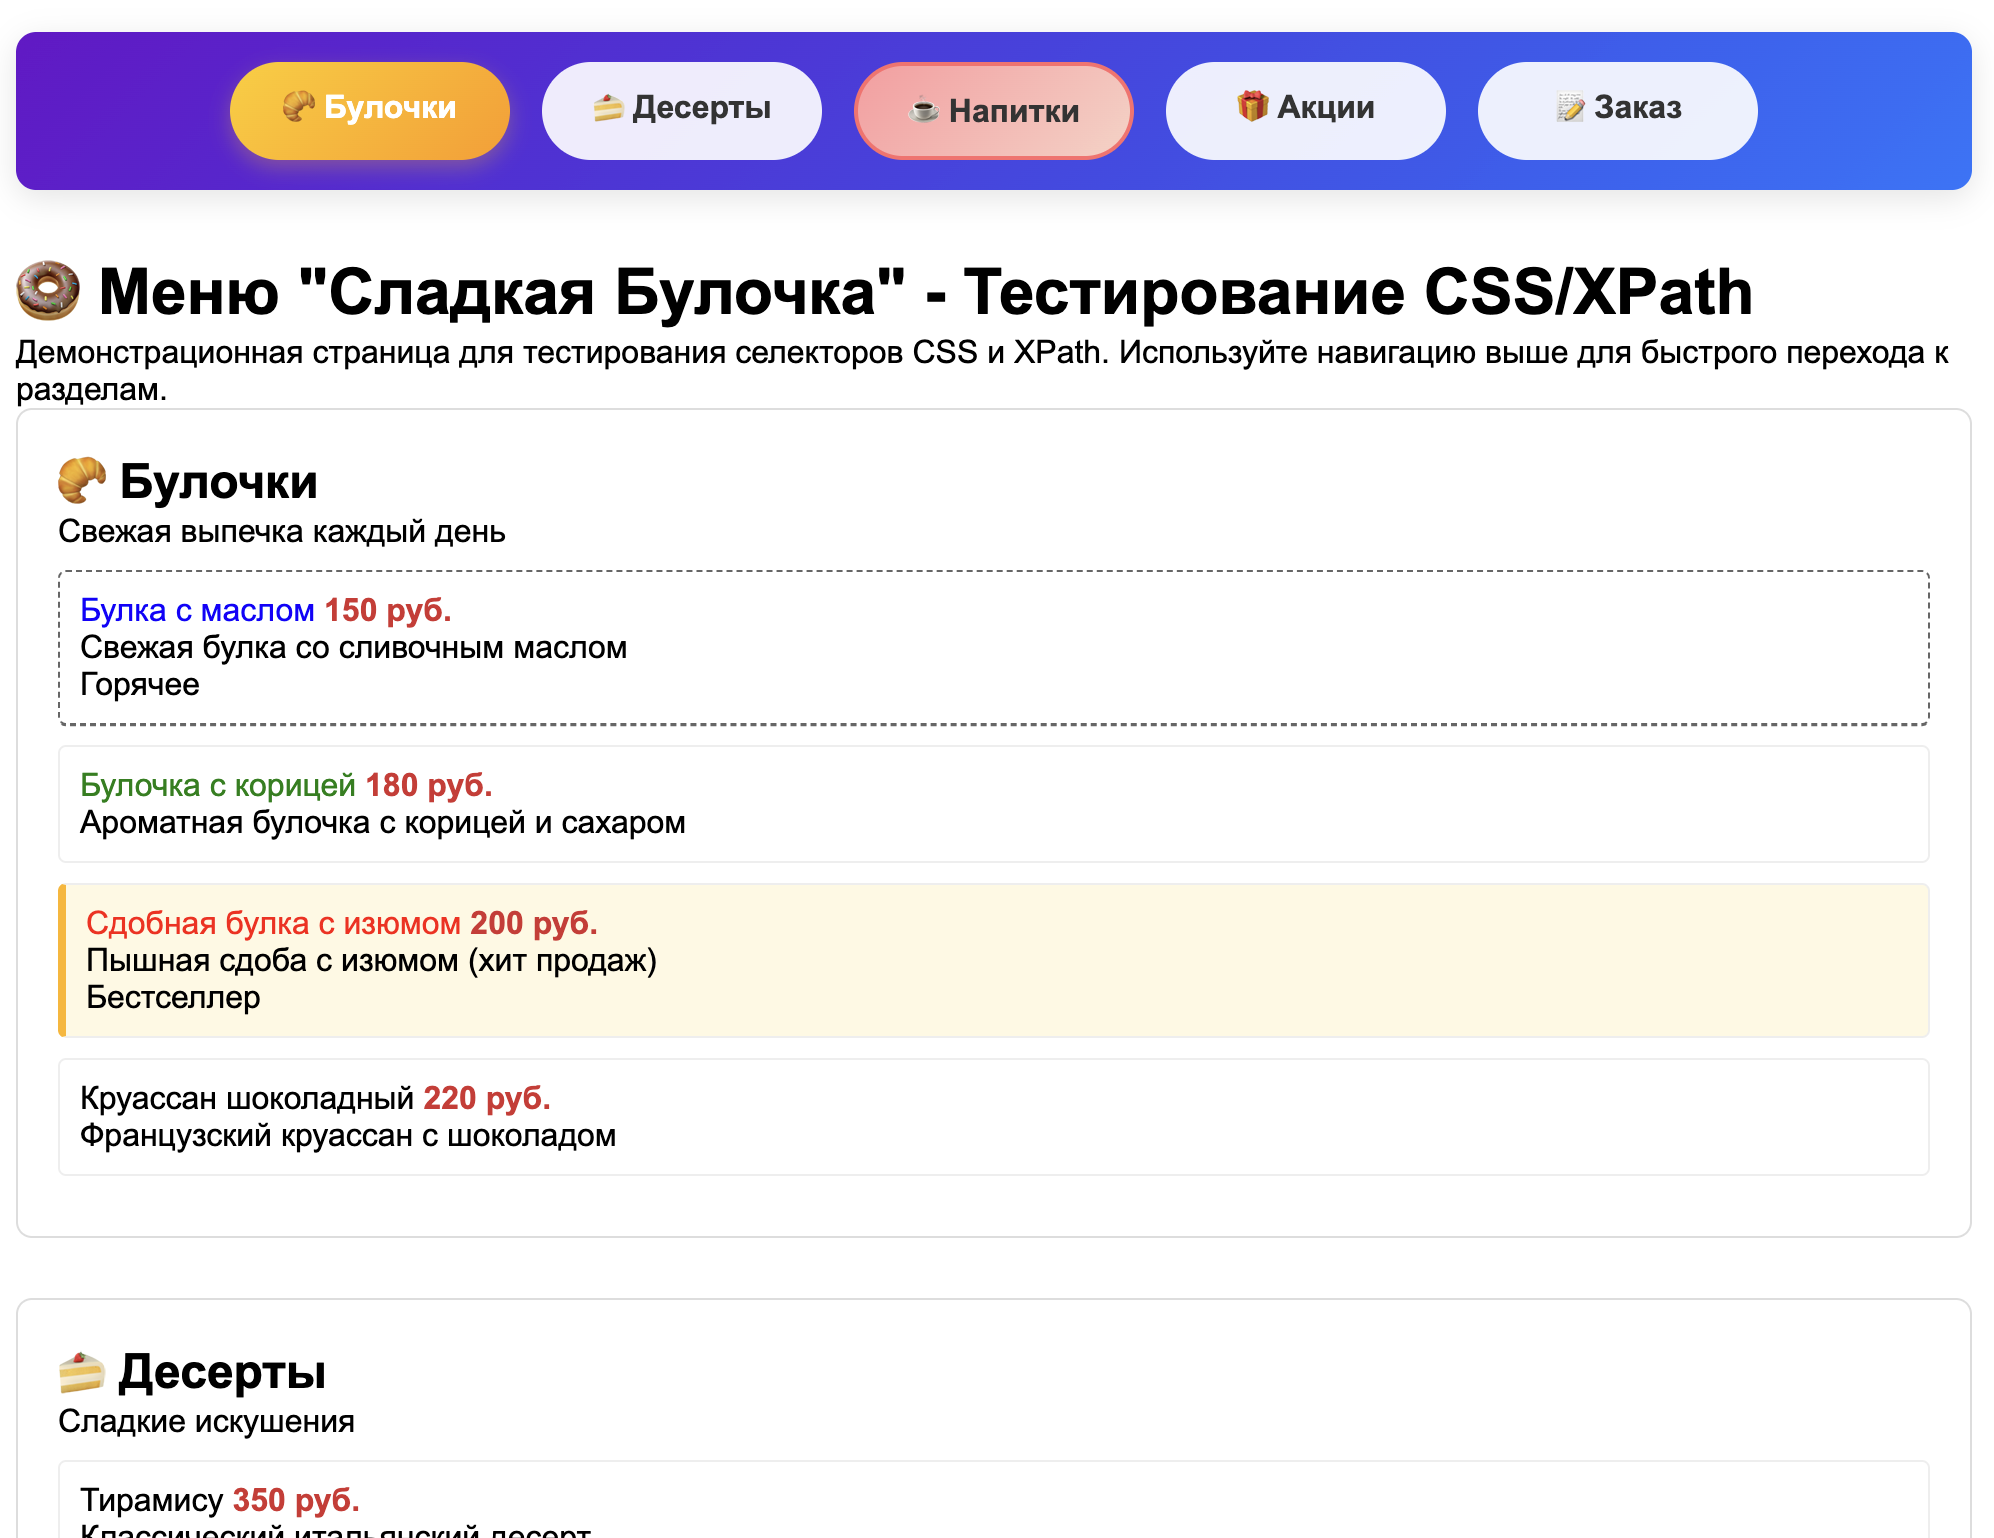
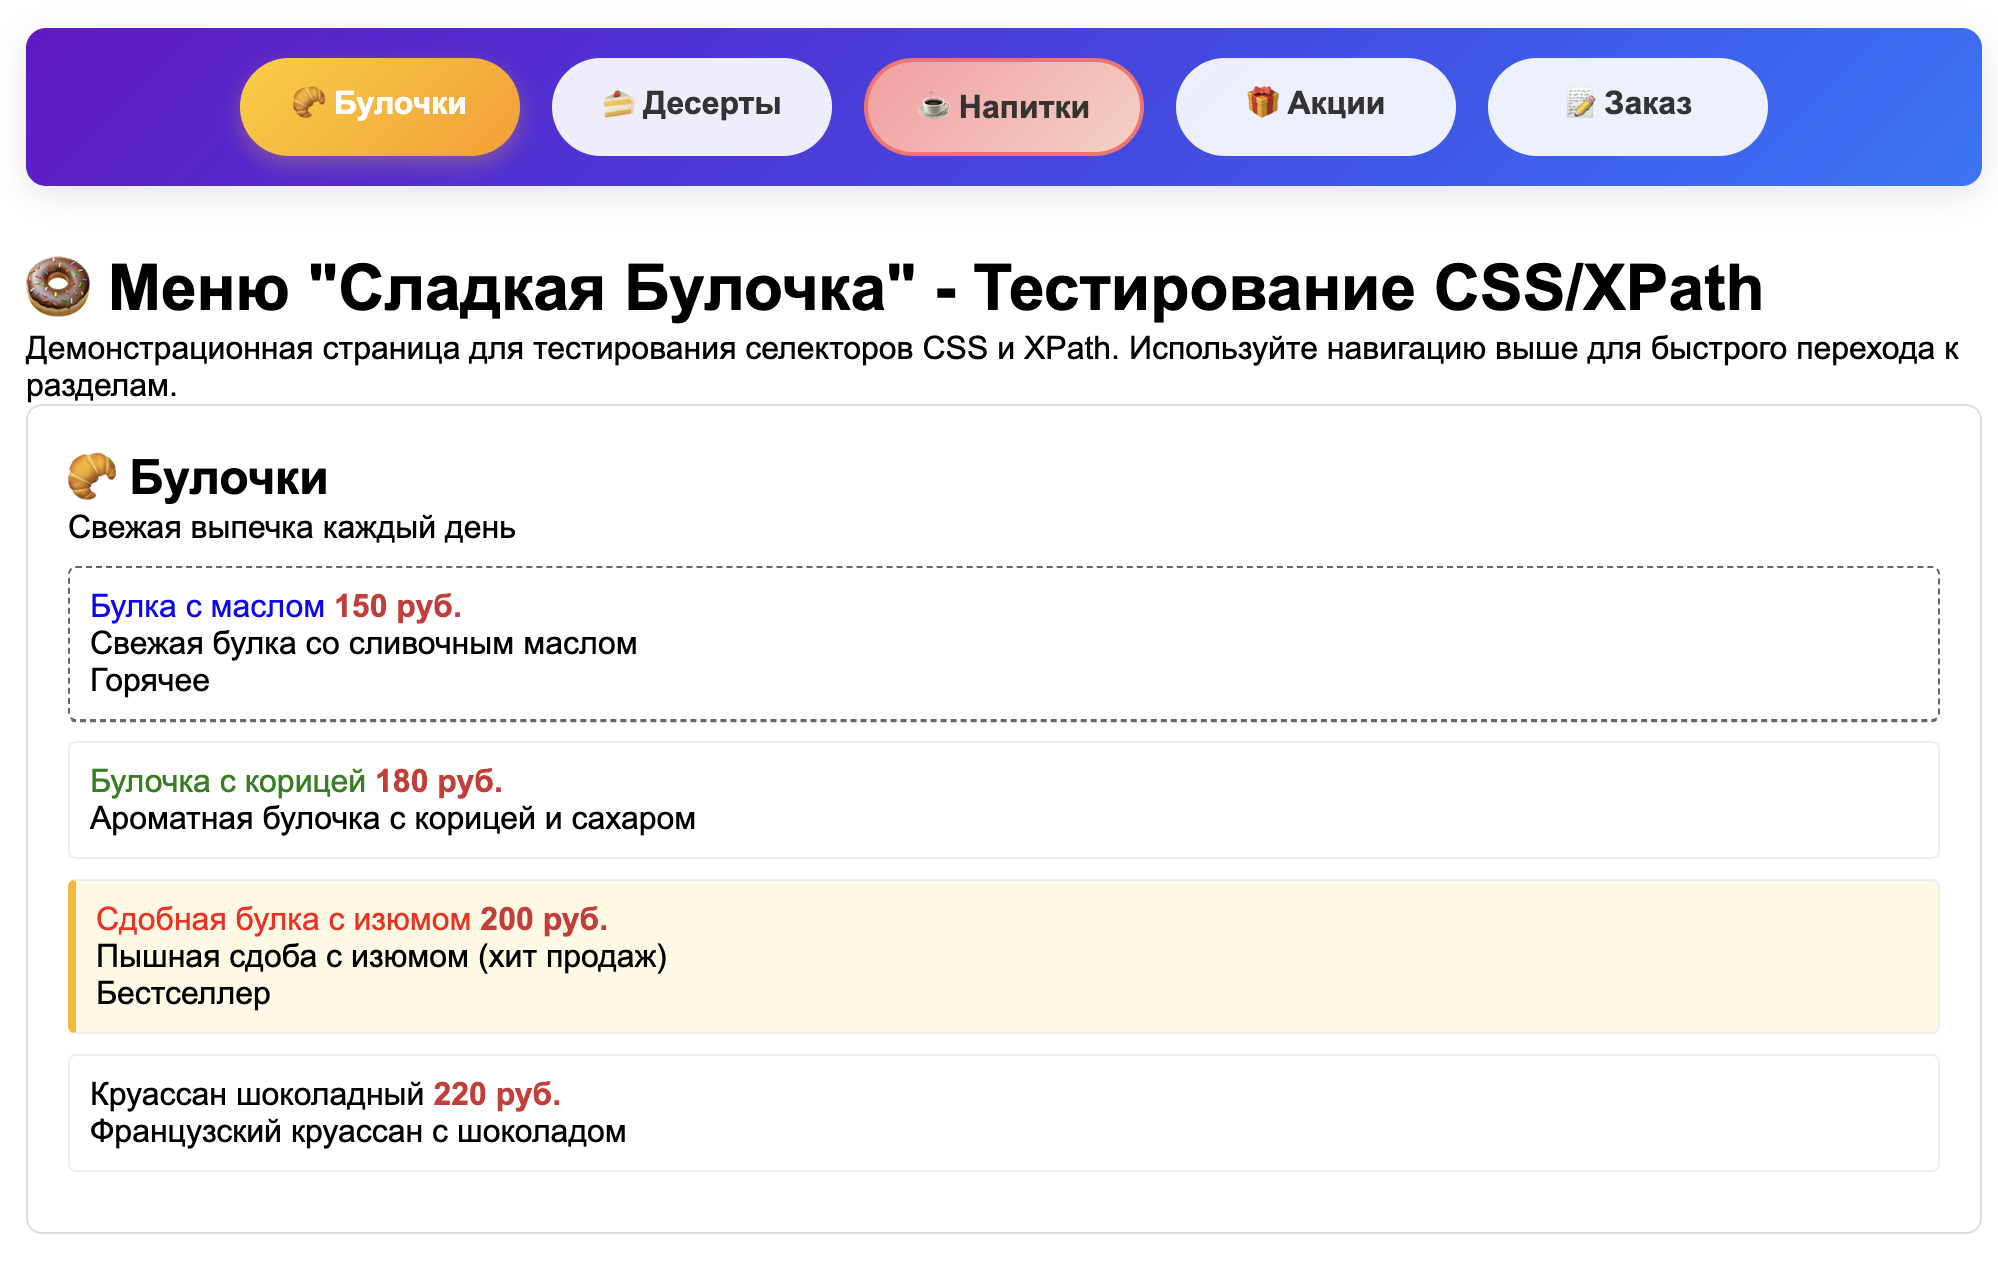
fix Readme

diff --git a/README.md b/README.md
@@ -19,7 +19,7 @@
 9. [✅ Проверка селекторов в браузере](css-xpath.md##-9-проверка-селекторов-в-браузере)
 
 ## Интерактивная демонстрация
-Песочница [index.html](index.html): - html страница с меню кондитерской, 
+Песочница [index.html](index.html) - html страница с меню кондитерской, 
 на которой можно протестировать результаты поиска по CSS-селекторам и XPath.
 
 ![Скриншот песочницы для тестирования CSS/XPath](/pictures/sandbox.png)
